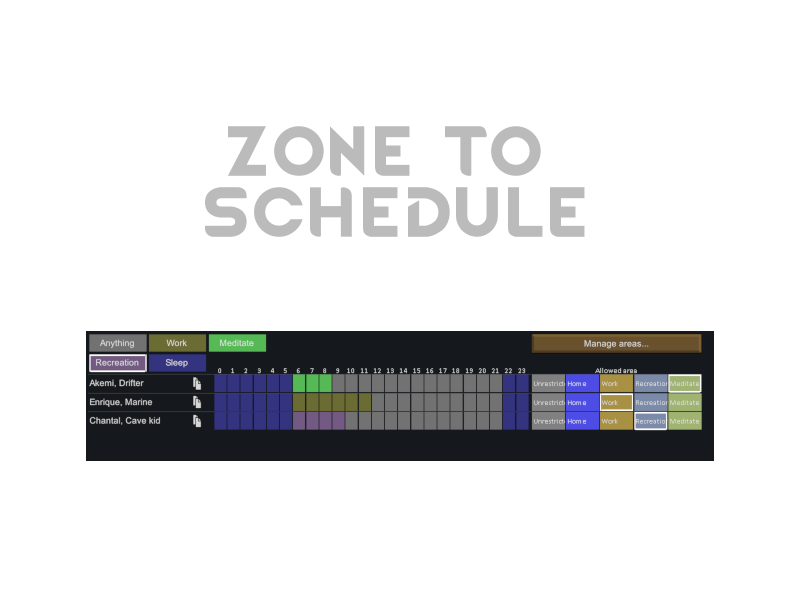
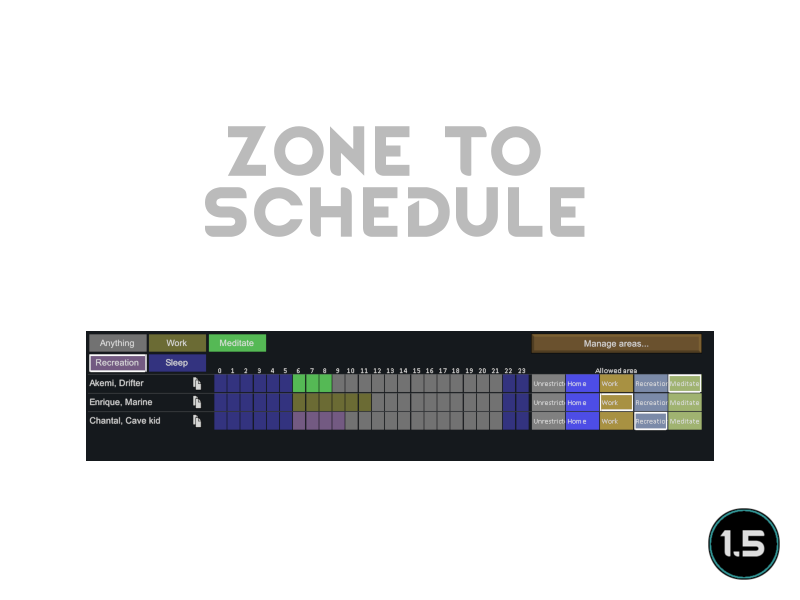
Mod updated for 1.5 and passed autotests

Changed region(s): [[0.875, 0.84, 1.0, 0.99]]

diff --git a/Source/MapZoneToSchedule/Pawn_TickRare_Patch.cs b/Source/MapZoneToSchedule/Pawn_TickRare_Patch.cs
@@ -45,7 +45,7 @@ public class Pawn_TickRare_Patch
     private static void verifyArea(Pawn pawn)
     {
         var currentAssignmentLabel = pawn.timetable.CurrentAssignment.label.ToLower();
-        var currentAreaRestriction = pawn.playerSettings.AreaRestriction;
+        var currentAreaRestriction = pawn.playerSettings.AreaRestrictionInPawnCurrentMap;
         var currentAreaRestrictionLabel = "unrestricted";
         if (currentAreaRestriction != null)
         {
@@ -65,13 +65,13 @@ public class Pawn_TickRare_Patch
             MapZoneToSchedule.WriteDebug(
                 $"Found no area matching {currentAssignmentLabel} for {pawn.NameShortColored}");
             lastAutoArea.Remove(pawn);
-            if (!lastManualArea.ContainsKey(pawn))
+            if (!lastManualArea.TryGetValue(pawn, out var value))
             {
                 return;
             }
 
             MapZoneToSchedule.WriteDebug(
-                $"Trying to match lastManualArea: {lastManualArea[pawn]} for {pawn.NameShortColored}");
+                $"Trying to match lastManualArea: {value} for {pawn.NameShortColored}");
             possibleAssignmentArea = getAreaByLabel(pawn, lastManualArea[pawn]);
             MapZoneToSchedule.WriteDebug(
                 possibleAssignmentArea == null
@@ -111,6 +111,6 @@ public class Pawn_TickRare_Patch
 
     private static void trySetAssignment(Pawn pawn, Area newArea)
     {
-        pawn.playerSettings.AreaRestriction = newArea;
+        pawn.playerSettings.AreaRestrictionInPawnCurrentMap = newArea;
     }
 }

diff --git a/Source/MapZoneToSchedule/MapZoneToSchedule.cs b/Source/MapZoneToSchedule/MapZoneToSchedule.cs
@@ -9,8 +9,7 @@ public class MapZoneToSchedule
 {
     static MapZoneToSchedule()
     {
-        var harmony = new Harmony("Mlie.MapZoneToSchedule");
-        harmony.PatchAll(Assembly.GetExecutingAssembly());
+        new Harmony("Mlie.MapZoneToSchedule").PatchAll(Assembly.GetExecutingAssembly());
     }
 
     public static void WriteDebug(string message)

diff --git a/README.md b/README.md
@@ -1,6 +1,6 @@
 # ZoneToSchedule
 
-![Image](https://i.imgur.com/buuPQel.png)
+![Image](https://i.imgur.com/iCj5o7O.png)
 
 
 If there is an area that matches a pawns current schedule-type they will automatically be confined to that area.
@@ -14,24 +14,26 @@ If you want to have custom schedules per pawn the user Messianic Gaming made an 
 
 Idea by: Psyra
 
-![Image](https://i.imgur.com/O0IIlYj.png)
+![Image](https://i.imgur.com/Ds0rBAD.png)
 
 Since modding is just a hobby for me I expect no donations to keep modding. If you still want to show your support you can gift me anything from my https://store.steampowered.com/wishlist/id/Mlie]Wishlist or buy me a cup of tea.
 
-https://ko-fi.com/G2G55DDYD]![Image](https://i.imgur.com/Utx6OIH.png)
+https://ko-fi.com/G2G55DDYD]![Image](https://i.imgur.com/VWG0yff.png)
 
 
-![Image](https://i.imgur.com/PwoNOj4.png)
+![Image](https://i.imgur.com/5xwDG6H.png)
 
 
 
 -  See if the the error persists if you just have this mod and its requirements active.
 -  If not, try adding your other mods until it happens again.
--  Post your error-log using https://steamcommunity.com/workshop/filedetails/?id=818773962]HugsLib and command Ctrl+F12
+-  Post your error-log using https://steamcommunity.com/workshop/filedetails/?id=818773962]HugsLib or the standalone https://steamcommunity.com/sharedfiles/filedetails/?id=2873415404]Uploader and command Ctrl+F12
 -  For best support, please use the Discord-channel for error-reporting.
 -  Do not report errors by making a discussion-thread, I get no notification of that.
 -  If you have the solution for a problem, please post it to the GitHub repository.
+-  Use https://github.com/RimSort/RimSort/releases/latest]RimSort to sort your mods
 
 
 
+https://steamcommunity.com/sharedfiles/filedetails/changelog/2436086611]![Image](https://img.shields.io/github/v/release/emipa606/ZoneToSchedule?label=latest%20version&style=plastic&labelColor=0070cd&color=white)
 
